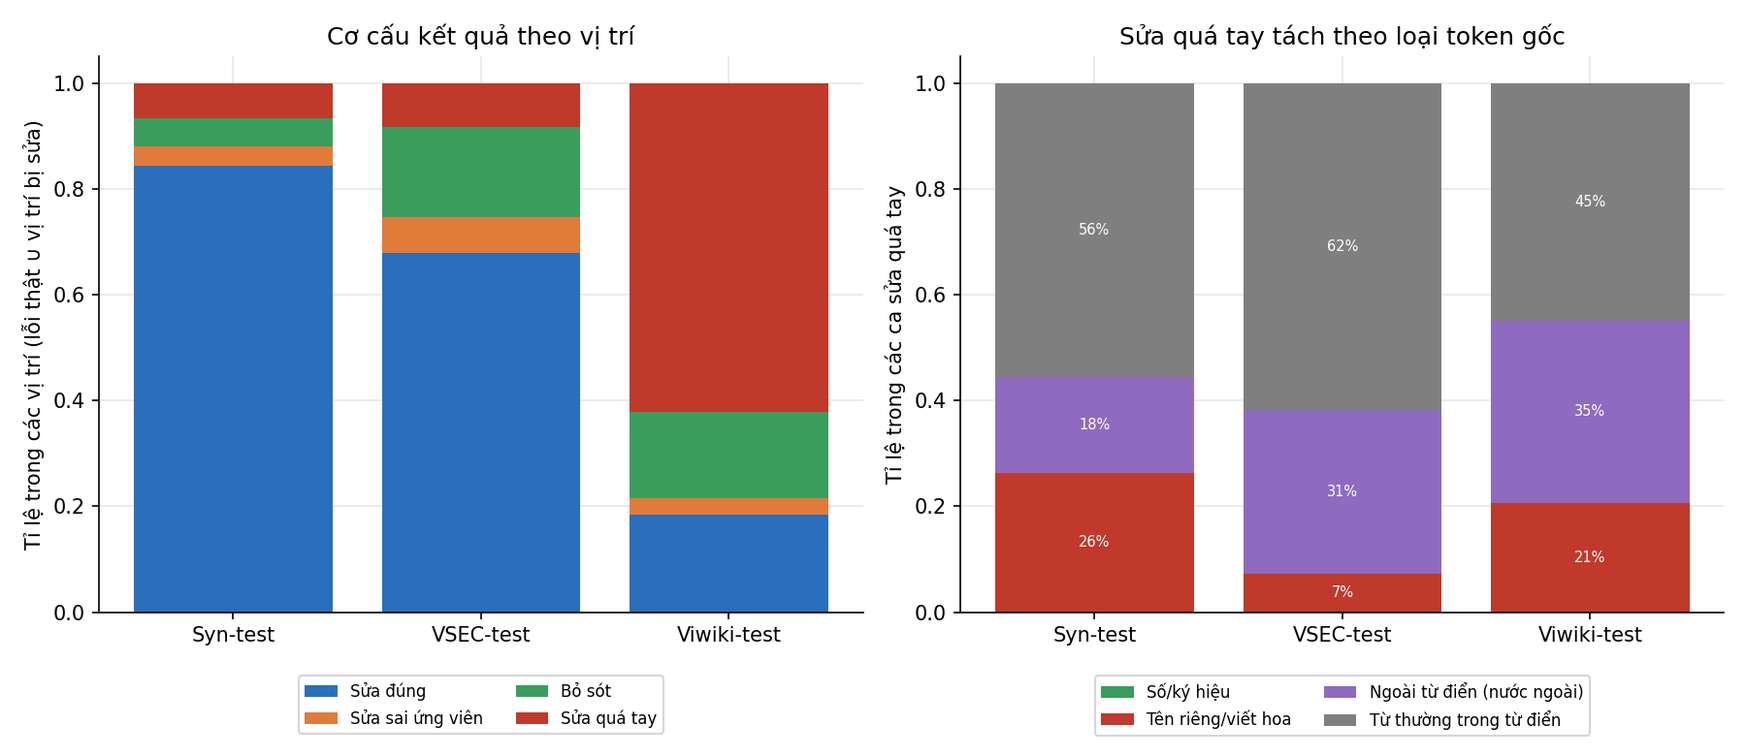
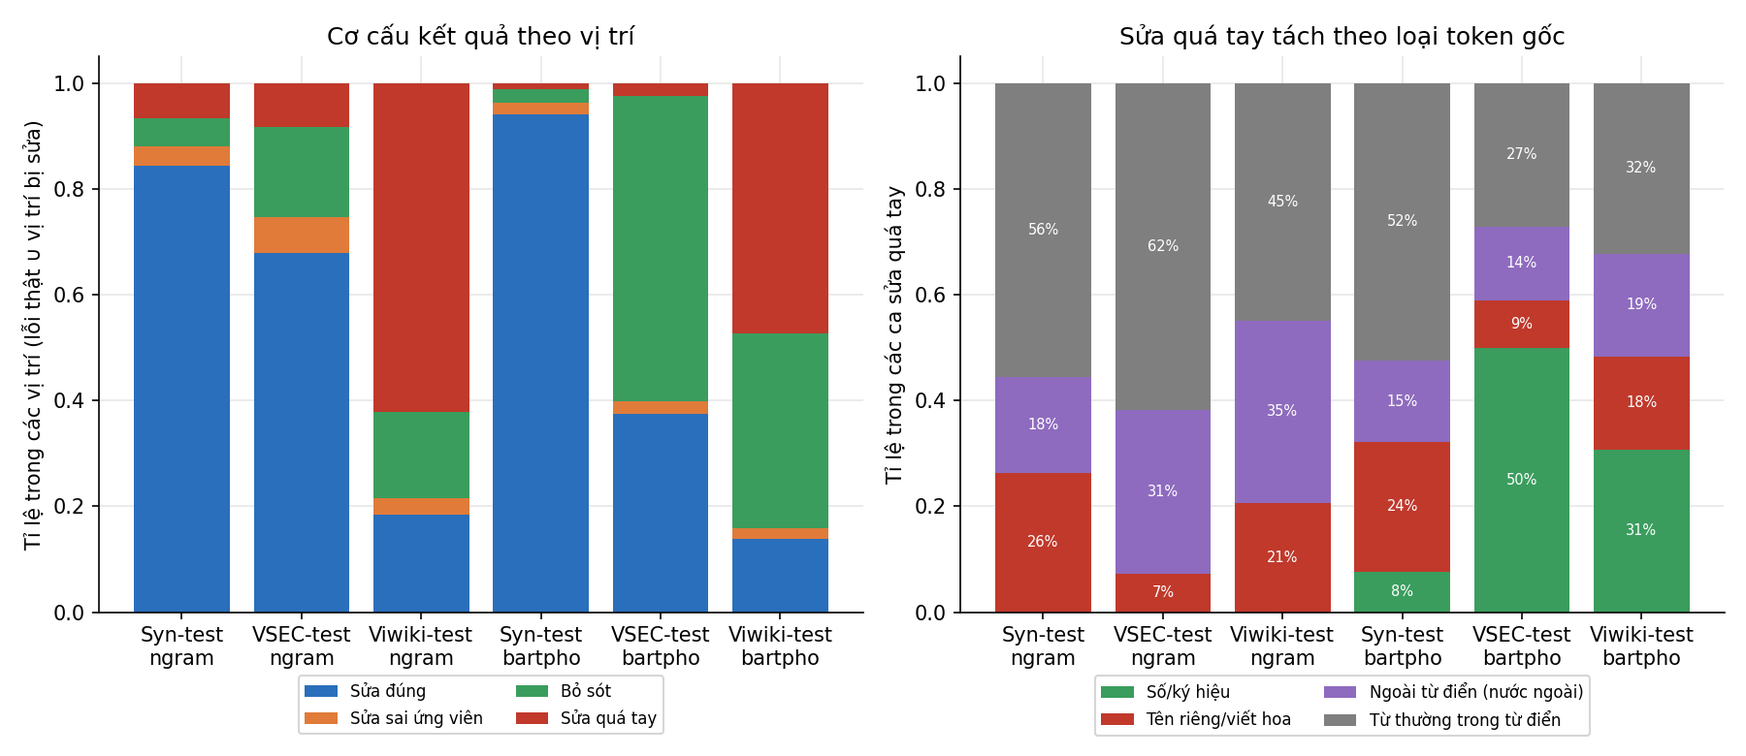
S5b: phân tích A vs C (recall theo kiểu lỗi, lỗi ra từ có thật, ablation mật độ nhiễu, ví dụ)

Changed region(s): [[0.56, 0.0923, 0.9956, 0.8923], [0.0622, 0.0923, 0.4978, 0.8923]]

diff --git a/scripts/analyze_errors.py b/scripts/analyze_errors.py
@@ -45,7 +45,10 @@ DATASETS = ["syn_test", "vsec_test", "viwiki_test"]
 DS_LABEL = {"syn_test": "Syn-test", "vsec_test": "VSEC-test", "viwiki_test": "Viwiki-test",
             "syn_val": "Syn-val", "syn_train": "Syn-train"}
 MODEL_LABEL = {"ngram": "A: n-gram (3-gram KN)", "bartpho": "C: BARTpho", "identity": "Đồng nhất",
-               "bilstm": "B: BiLSTM"}
+               "bilstm": "B: BiLSTM", "bartpho_v1unk": "C: BARTpho v2 (lỗi <unk>)"}
+# Ablation C (mật độ nhiễu khi sinh dữ liệu train): tag -> (mật độ, nhãn)
+ABLATION_C = {"bartpho_d05": (0.05, "5% · 50k · 1 ep"), "bartpho_d12": (0.12, "12% · 50k · 1 ep"),
+              "bartpho_d25": (0.25, "25% · 50k · 1 ep"), "bartpho": (0.12, "12% · 150k · 3 ep\n(mô hình chính)")}
 CAT_LABEL = {"sua_dung": "Sửa đúng", "sua_sai": "Sửa sai ứng viên", "bo_sot": "Bỏ sót",
              "sua_qua_tay": "Sửa quá tay"}
 SUB_LABEL = {"so_ky_hieu": "Số/ký hiệu", "ten_rieng": "Tên riêng/viết hoa",
@@ -671,6 +674,79 @@ def comparison_examples(per_sent, models, rng, start) -> list[str]:
     return md
 
 
+# ---------------------------------------------------------------------------- 6. A vs C theo kiểu lỗi thật
+def ab_recall_rows(per_sent, models: list[str], lexicon: set[str]) -> list[dict]:
+    """Recall sửa lỗi trên lỗi thật, tách theo (a) lỗi tạo ra từ không có thật / từ có thật trong từ điển,
+    (b) kiểu lỗi suy từ cặp (sai, đúng). Lỗi từ có thật (vd giảm→giam) chỉ phát hiện được nhờ ngữ cảnh."""
+    rows = []
+    for m in models:
+        for ds in ["vsec_test", "viwiki_test"]:
+            if (m, ds) not in per_sent:
+                continue
+            tot, ok = Counter(), Counter()
+            for it in per_sent[(m, ds)][1]:
+                for x in it:
+                    if x["cat"] not in ("sua_dung", "sua_sai", "bo_sot") or not _HAS_LETTER.search(x["src_tok"]):
+                        continue
+                    word = "Lỗi ra từ có thật" if x["src_tok"].lower() in lexicon else "Lỗi ra từ không có thật"
+                    for key in [("loai_tu", word), ("kieu_loi", real_error_kind(x["src_tok"], x["gold_str"]))]:
+                        tot[key] += 1
+                        ok[key] += x["cat"] == "sua_dung"
+            for (group, kind), n in sorted(tot.items()):
+                rows.append({"model": m, "dataset": ds, "group": group, "kind": kind, "n": n,
+                             "cor_r": round(ok[(group, kind)] / n, 4)})
+    return rows
+
+
+def run_ab_figures(rows: list[dict], models: list[str], tab_dir: Path, fig_dir: Path) -> None:
+    plt = _plt()
+    # (1) Recall theo loại từ gốc (không có thật / có thật), VSEC và Viwiki
+    kinds = ["Lỗi ra từ không có thật", "Lỗi ra từ có thật"]
+    d = {(r["model"], r["dataset"], r["kind"]): r for r in rows if r["group"] == "loai_tu"}
+    if d:
+        fig, axes = plt.subplots(1, 2, figsize=(10, 3.8), sharey=True)
+        for ax, ds in zip(axes, ["vsec_test", "viwiki_test"]):
+            w = 0.8 / len(models)
+            for k, m in enumerate(models):
+                vals = [float(d[(m, ds, kd)]["cor_r"]) if (m, ds, kd) in d else 0 for kd in kinds]
+                bars = ax.bar([i + (k - (len(models) - 1) / 2) * w for i in range(len(kinds))], vals, w,
+                              color=COLORS[k], label=MODEL_LABEL.get(m, m))
+                _bar_labels(ax, bars)
+            ns = [d.get((models[0], ds, kd), {}).get("n", "?") for kd in kinds]
+            ax.set_xticks(range(len(kinds)), [f"{kd}\n(n={n})" for kd, n in zip(kinds, ns)])
+            ax.set_title(DS_LABEL[ds])
+            ax.set_ylim(0, 1.05)
+        axes[0].set_ylabel("Correction recall")
+        axes[0].legend(fontsize=8)
+        fig.suptitle("Recall trên lỗi thật: lỗi tạo ra từ không có thật và lỗi tạo ra từ có thật")
+        _save(fig, fig_dir, "ab_recall_word_kind.png")
+
+    # (2) Ablation C: mật độ nhiễu và quy mô train, trên VSEC-test
+    main = {(r["model"], r["dataset"]): r for r in _read_csv(tab_dir / "main_results.csv")}
+    abl = [m for m in ABLATION_C if (m, "vsec_test") in main]
+    if len(abl) >= 2:
+        out = []
+        for m in abl:
+            r = main[(m, "vsec_test")]
+            out.append({"model": m, "density": ABLATION_C[m][0], "setting": ABLATION_C[m][1].replace("\n", " "),
+                        **{k: r[k] for k in ["cor_p", "cor_r", "cor_f1", "over_correction"]}})
+        write_csv(tab_dir / "ablation_noise_density.csv", out)
+        metrics = [("cor_p", "Precision"), ("cor_r", "Recall"), ("cor_f1", "F1"), ("over_correction", "Sửa quá tay")]
+        fig, ax = plt.subplots(figsize=(9, 4))
+        w = 0.8 / len(abl)
+        for k, m in enumerate(abl):
+            vals = [float(main[(m, "vsec_test")][key]) for key, _ in metrics]
+            bars = ax.bar([i + (k - (len(abl) - 1) / 2) * w for i in range(len(metrics))], vals, w,
+                          color=COLORS[k], label=ABLATION_C[m][1].replace("\n", " "))
+            _bar_labels(ax, bars)
+        ax.set_xticks(range(len(metrics)), [lab for _, lab in metrics])
+        ax.set_ylim(0, 1.05)
+        ax.set_title("Ablation C trên VSEC-test: mật độ nhiễu khi sinh dữ liệu train")
+        ax.legend(fontsize=8, ncol=2)
+        _save(fig, fig_dir, "ablation_noise_density.png")
+    plt.close("all")
+
+
 # ---------------------------------------------------------------------------- main
 def main() -> None:
     ap = argparse.ArgumentParser(description=__doc__, formatter_class=argparse.RawDescriptionHelpFormatter)
@@ -714,6 +790,9 @@ def main() -> None:
         run_examples(per_sent, args.models, tab_dir, hyp, args.seed)
         if len(args.models) >= 2:
             write_csv(tab_dir / "model_comparison.csv", comparison_rows(per_sent, args.models))
+            ab_rows = ab_recall_rows(per_sent, args.models, lexicon)
+            write_csv(tab_dir / "ab_recall_by_kind.csv", ab_rows)
+            run_ab_figures(ab_rows, args.models, tab_dir, fig_dir)
     if "results" in steps:
         run_results(tab_dir, fig_dir, breakdown, args.models)
 

diff --git a/report/phan_tich_A_vs_C.md b/report/phan_tich_A_vs_C.md
@@ -1,0 +1,157 @@
+# Phân tích A (n-gram) và C (BARTpho)
+
+*Bản nháp cho mục 5 của báo cáo (S5b). Số liệu được sinh bởi `PYTHONPATH=src python -X utf8 scripts/analyze_errors.py --models ngram bartpho --steps errors,results`.*
+
+- **Bảng:** `outputs/tables/main_results.csv`, `model_comparison.csv`, `ab_recall_by_kind.csv`, `ablation_noise_density.csv`, `real_error_kinds.csv`.
+- **Hình:** `outputs/figures/model_comparison_test_sets.png`, `ab_recall_word_kind.png`, `ablation_noise_density.png`, `recall_by_error_type.png`, `error_breakdown.png`.
+- **Ví dụ:** `outputs/tables/error_examples.md`, các ví dụ 15–23.
+
+## 1. Kết quả chung
+
+| Mô hình | Syn-test cor F1 | VSEC-test cor F1 | Viwiki-test cor F1 | Sửa quá tay (Syn / VSEC / Viwiki) |
+|---|---|---|---|---|
+| A: n-gram 3-gram KN | 0,898 | **0,778** | **0,304** | 0,127 / 0,063 / 0,128 |
+| C: BARTpho v2 (lỗi `<unk>`) | 0,919 | 0,490 | 0,159 | 0,159 / 0,523 / 0,139 |
+| C: BARTpho v3 | **0,959** | 0,536 | 0,240 | **0,020 / 0,026 / 0,043** |
+
+- **Trên dữ liệu tổng hợp, C thắng rõ.** Correction F1 là 0,959 so với 0,898, và C gần như không sửa quá tay (0,020).
+- **Trên lỗi thật, A thắng.** Trên VSEC: 0,778 so với 0,536. Trên Viwiki: 0,304 so với 0,240.
+- **C có hồ sơ "thận trọng".** Precision trên VSEC là 0,888, cao hơn A (0,819). Nhưng recall chỉ 0,384, so với 0,741 của A.
+- **Đối chiếu từng vị trí lỗi thật trên VSEC** (`model_comparison.csv`):
+
+  | Nhóm | Số vị trí |
+  |---|---|
+  | Cả hai sửa đúng | 2.881 |
+  | Chỉ A đúng | 3.531 |
+  | Chỉ C đúng | 442 |
+  | Cả hai sai | 1.797 |
+
+  Gần như mọi lỗi C sửa được thì A cũng sửa được. Ngược lại thì không.
+
+**Bài học từ v2 sang v3.** Vocab của BARTpho chỉ có kiểu dấu mới (hoà, thoả, khoẻ, tuỳ, uỷ). Các âm tiết viết theo kiểu dấu cũ (hòa, thỏa…) bị tokenizer biến thành `<unk>`. Mô hình học cách xóa chúng, nên tỉ lệ sửa quá tay trên VSEC lên tới 0,52. Đổi sang kiểu dấu mới trước khi tokenize (`to_bartpho_style`) đã đưa tỉ lệ này về 0,026. Đây là lỗi tiền xử lý, không phải giới hạn của mô hình. Nó cho thấy chuẩn hóa Unicode và vị trí dấu phải khớp với vocab của mô hình tiền huấn luyện.
+
+## 2. Vì sao C thua trên lỗi thật: lệch phân bố loại lỗi
+
+Phân bố kiểu lỗi được suy từ cặp (âm tiết sai, âm tiết đúng), lấy từ `real_error_kinds.csv`:
+
+| Kiểu lỗi | Syn-train | VSEC-test | Viwiki-test |
+|---|---|---|---|
+| Chỉ sai dấu thanh | 6,6% | **49,6%** | **34,1%** |
+| Sai dấu phụ (ă â ê ô ơ ư đ) | 0,4% | 12,0% | 15,7% |
+| Sai 1 chữ cái | **83,8%** | 25,6% | 34,7% |
+| Sai ≥2 ký tự | 9,3% | 4,4% | 7,5% |
+| Tách/ghép âm tiết | 0,0% | 8,4% | 7,8% |
+
+Bộ sinh nhiễu (tỉ lệ loại lỗi theo arXiv 2405.02573) chủ yếu tạo lỗi thay hoặc thêm một chữ cái. Lỗi thật thì một nửa là sai dấu thanh. Recall sửa lỗi theo kiểu lỗi trên VSEC (`ab_recall_by_kind.csv`):
+
+| Kiểu lỗi (VSEC) | n | A | C |
+|---|---|---|---|
+| Chỉ sai dấu thanh | 4.288 | **0,876** | 0,330 |
+| Sai dấu phụ | 1.038 | **0,897** | 0,491 |
+| Sai 1 chữ cái | 2.203 | **0,745** | 0,542 |
+| Sai ≥2 ký tự | 363 | 0,234 | **0,444** |
+| Tách/ghép âm tiết | 418 | 0,002 | **0,089** |
+
+**Nhận xét:**
+
+- **A không phụ thuộc vào phân bố nhiễu khi huấn luyện.** Tập ứng viên của A luôn chứa mọi biến thể dấu thanh và dấu phụ của âm tiết. Việc chọn ứng viên do mô hình ngôn ngữ quyết định, mà mô hình này được học trên văn bản sạch.
+- **C chỉ học những phép sửa đã thấy nhiều khi huấn luyện.** Lỗi dấu thanh chỉ chiếm 6,6% dữ liệu train, nên C hiếm khi dám đổi dấu. Kết quả là recall thấp và precision cao.
+- **C mạnh hơn ở lỗi khó.** Đó là lỗi sai từ 2 ký tự trở lên (ví dụ `phpasp` → `pháp`) và một phần lỗi tách/ghép âm tiết. A không làm được các lỗi này vì giới hạn khoảng cách sửa ≤ 2 và vì A giữ ánh xạ một âm tiết sang một âm tiết.
+
+## 3. Lỗi tạo ra từ có thật
+
+Ta gọi một lỗi là **"tạo ra từ có thật"** khi âm tiết sai vẫn nằm trong từ điển âm tiết, ví dụ giảm→giam, tác giả→tác gia. Những lỗi này chỉ phát hiện được nhờ ngữ cảnh. Ngược lại, lỗi "tạo ra từ không có thật" là khi âm tiết sai nằm ngoài từ điển (hình `ab_recall_word_kind.png`).
+
+| | VSEC: không có thật | VSEC: có thật | Viwiki: không có thật | Viwiki: có thật |
+|---|---|---|---|---|
+| n | 1.677 | **6.638** | 357 | **1.159** |
+| A | 0,751 | **0,776** | 0,389 | **0,528** |
+| C | 0,678 | 0,329 | 0,331 | 0,249 |
+
+- **Đa số lỗi thật thuộc loại tạo ra từ có thật:** 80% trên VSEC và 76% trên Viwiki.
+- **Với lỗi tạo ra từ không có thật,** C chỉ thua A khoảng 7 điểm.
+- **Với lỗi tạo ra từ có thật,** C chỉ sửa được 33%. Mô hình mặc định giữ nguyên một âm tiết hợp lệ, trừ khi ngữ cảnh rất rõ.
+
+Hai nhận xét này trùng nhau: phần lớn lỗi tạo ra từ có thật chính là lỗi sai dấu thanh.
+
+## 4. Ablation C: mật độ nhiễu và quy mô huấn luyện
+
+Kết quả trên VSEC-test (`ablation_noise_density.csv`, hình `ablation_noise_density.png`):
+
+| Cấu hình | P | R | F1 | Sửa quá tay |
+|---|---|---|---|---|
+| 5% nhiễu · 50k cặp · 1 epoch | 0,884 | 0,422 | 0,572 | 0,024 |
+| 12% · 50k · 1 epoch | 0,882 | **0,480** | 0,622 | 0,028 |
+| 25% · 50k · 1 epoch | 0,895 | 0,479 | **0,624** | 0,045 |
+| 12% · 150k · 3 epoch (mô hình chính) | 0,888 | 0,384 | 0,536 | 0,026 |
+
+- **Mật độ nhiễu:** tăng từ 5% lên 12% làm recall tăng 6 điểm, còn precision gần như không đổi. Lên 25% thì F1 không tăng thêm, trong khi tỉ lệ sửa quá tay gần gấp đôi. Mức 12% là điểm cân bằng hợp lý.
+- **Quy mô huấn luyện:** mô hình chính được train nhiều hơn khoảng 9 lần (150k cặp × 3 epoch). Nó tốt hơn trên Syn-test nhưng **kém hơn** trên VSEC (0,536 so với 0,622). Train càng lâu trên dữ liệu tổng hợp, mô hình càng khớp với phân bố nhiễu tự sinh và càng ít dám sửa những lỗi không giống dữ liệu train. Vì vậy, chọn checkpoint theo Syn-val không phải là tiêu chí tốt khi mục tiêu là lỗi thật.
+- **Hướng cải thiện (chưa làm):**
+  - tăng tỉ lệ lỗi dấu thanh và dấu phụ khi sinh nhiễu cho khớp với VSEC;
+  - chọn checkpoint hoặc dừng sớm theo VSEC-dev;
+  - trộn một phần dữ liệu lỗi thật vào tập train.
+
+## 5. Ví dụ tiêu biểu
+
+Các ví dụ được đánh số theo `outputs/tables/error_examples.md`. In **đậm** là vị trí lỗi hoặc vị trí bị sửa.
+
+**Ví dụ 15. A đúng, C sai: lỗi tạo ra từ có thật (Viwiki).**
+
+- src: Không những Voltaire, tác **gia** Thụy Điển là Frans G.
+- A: tác **giả**. C: giữ nguyên `tác gia`.
+- Nhận xét: "gia" là âm tiết hợp lệ. A nhận ra nhờ trigram "tác giả Thụy" có xác suất cao hơn hẳn. C coi "tác gia" là cụm hợp lệ (nó cũng là một từ Hán Việt hiếm) nên không sửa.
+
+**Ví dụ 16. A đúng, C sai: chỉ sai dấu thanh (VSEC).**
+
+- src: công sức **đòng** góp của vợ, chồng
+- A: **đóng** góp. C: giữ nguyên `đòng`.
+- Nhận xét: đây là kiểu lỗi chiếm một nửa VSEC. A thử mọi dấu thanh của "đong" và chọn theo LM. C hiếm khi thấy kiểu sửa này khi train.
+
+**Ví dụ 17. A đúng, C sai: sai dấu thanh, ngay cả trên Syn-test.**
+
+- src: **Buỗi** chiều, các đại biểu sẽ thảo luận theo tổ.
+- A: **Buổi**. C: giữ nguyên `Buỗi`.
+- Nhận xét: "Buỗi" không phải âm tiết hợp lệ. Dù vậy C vẫn bỏ qua, vì lỗi sai dấu thanh chỉ chiếm 6,6% dữ liệu train.
+
+**Ví dụ 18. C đúng, A sai: tên riêng bị lỗi gõ (Syn).**
+
+- src: ông Đinh Văn **Fhu** **lpà** Đinh Văn Vũ
+- A: chỉ sửa `lpà` → `là`, giữ nguyên `Fhu`. C: sửa cả hai, `Fhu` → **Thu** và `lpà` → **là**.
+- Nhận xét: A tránh sửa từ viết hoa giữa câu (coi là tên riêng). C dùng ngữ cảnh "Đinh Văn ___" để đoán đúng tên.
+
+**Ví dụ 19. C đúng, A sai: sai nhiều ký tự (VSEC).**
+
+- src: thực hiện biện **phpasp** này
+- A: giữ nguyên. C: **pháp**.
+- Nhận xét: khoảng cách sửa từ "phpasp" đến "pháp" lớn hơn 2 (lỗi Telex gõ lặp), nên A không có ứng viên đúng. C sinh lại cả chuỗi nên không bị giới hạn này.
+
+**Ví dụ 20. C đúng, A sai: lỗi cần hiểu cụm từ (Viwiki).**
+
+- src: và **cơ** **ngợi** những chiến thắng
+- A: sửa `ngợi` → `ngơi`, thành "cơ ngơi", đúng ngữ pháp nhưng sai nghĩa. C: **ca** ngợi.
+- Nhận xét: gold chỉ sửa "cơ" → "ca". A chọn sửa sai âm tiết vì "cơ ngơi" là một cụm phổ biến trong LM.
+
+**Ví dụ 21. Cả hai sai: hai lỗi liền kề (VSEC).**
+
+- src: vay vốn tín **chất** để **phụ** vụ cho hoạt động nuôi trồng
+- A: sửa được `chất` → **chấp** nhưng bỏ sót `phụ` → `phục`. C: không sửa gì.
+- Nhận xét: cả hai lỗi đều tạo ra từ có thật. Với "phụ" → "phục", hình phạt khi sửa một âm tiết hợp lệ của A lớn hơn mức chênh điểm LM. C thì bỏ qua cả hai, đúng với hồ sơ "thận trọng" đã nêu ở mục 1.
+
+**Ví dụ 22. Cả hai sai: viết tắt hoặc tên câu lạc bộ (Viwiki).**
+
+- src: **Chel** 85 điểm. Gold: chelsea.
+- Nhận xét: đây là lỗi "tách/ghép" và viết tắt, nằm ngoài phạm vi thiết kế của cả hai mô hình (giữ một âm tiết sang một âm tiết, không có tên riêng nước ngoài trong từ điển). Ví dụ này cũng cho thấy nhãn của Viwiki có độ nhiễu nhất định.
+
+**Ví dụ 23. Cả hai sai: lỗi cần kiến thức thế giới (Syn).**
+
+- src: hoa đào, hoa **hai**, bánh chưng… Gold: hoa **mai**.
+- A: sửa thành "hồi" (hoa hồi, đúng ngữ pháp). C: giữ nguyên "hai".
+- Nhận xét: cả hai đều sửa đúng `khoong` → `không` ở đầu câu. Nhưng muốn sửa "hai" → "mai" thì cần biết cặp "hoa đào, hoa mai" ngày Tết, điều mà trigram và mô hình đã fine-tune trên tin tức đều không nắm được.
+
+## 6. Kết luận cho mục 5
+
+1. **Trên dữ liệu cùng phân bố với lúc huấn luyện, C (BARTpho) tốt hơn A** cả về F1 lẫn độ an toàn (ít sửa quá tay).
+2. **Trên lỗi thật, A tốt hơn.** Nguyên nhân chính là lệch phân bố loại lỗi giữa nhiễu tổng hợp và lỗi thật: lỗi sai dấu thanh và lỗi tạo ra từ có thật chiếm đa số trong lỗi thật nhưng rất ít trong dữ liệu train. Bản thân kiến trúc không phải nguyên nhân chính.
+3. **Hai mô hình bổ sung cho nhau.** C mạnh ở lỗi sai nhiều ký tự và lỗi cần ngữ cảnh rộng, A mạnh ở lỗi dấu. Kết hợp hai mô hình (ví dụ dùng A tạo ứng viên rồi C xếp hạng, hoặc ensemble) là hướng phát triển tự nhiên.
+4. **Kết quả ablation C:** tăng mật độ nhiễu lên 12% có lợi. Train lâu hơn trên dữ liệu tổng hợp lại có hại khi chuyển sang lỗi thật.

diff --git a/outputs/tables/error_examples.md b/outputs/tables/error_examples.md
@@ -145,3 +145,68 @@ In **đậm**: ở `src` là vị trí lỗi thật hoặc bị mô hình sửa;
 | neu_bo_qua_ten_rieng+ngoai_tu_dien | 0.3634 | F1 nếu không sửa nhóm này: P=0.338 R=0.393 (mất 145 sửa đúng) |
 | neu_bo_qua_ten_rieng+ngoai_tu_dien+so_ky_hieu | 0.3634 | F1 nếu không sửa nhóm này: P=0.338 R=0.393 (mất 145 sửa đúng) |
 | top_overcorrections | manga→mang (29); Nero→Nào (18); kỉ→kỷ (15); Gin→Giá (15); Nero→Neo (15); Khun→Khu (15); c→có (14); lb→lễ (13); and→anh (13); bạn→bàn (13); điốt→điểm (12); biến→tiến (10); trưởng→trường (10); Mao→Mai (10); Thự→Thọ (10) |  |
+
+## So sánh A: n-gram (3-gram KN) và C: BARTpho
+
+**Ví dụ 15. ngram đúng, bartpho sai [viwiki-6810-547]**
+
+- src : Không những Voltaire , tác **gia** Thụy Điển là Frans G .
+- ngram: Không những Voltaire , tác **giả** Thụy Điển là Frans G .
+- bartpho: Không những Voltaire , tác gia Thụy Điển là Frans G .
+- tgt : Không những Voltaire , tác **giả** Thụy Điển là Frans G .
+
+**Ví dụ 16. ngram đúng, bartpho sai [vsec-404]**
+
+- src : … có một quy định nào quy định cụ thể về công sức **đòng** góp của vợ , chồng trong việc tạo lập , duy trì …
+- ngram: … có một quy định nào quy định cụ thể về công sức **đóng** góp của vợ , chồng trong việc tạo lập , duy trì …
+- bartpho: … có một quy định nào quy định cụ thể về công sức đòng góp của vợ , chồng trong việc tạo lập , duy trì …
+- tgt : … có một quy định nào quy định cụ thể về công sức **đóng** góp của vợ , chồng trong việc tạo lập , duy trì …
+
+**Ví dụ 17. ngram đúng, bartpho sai [syn_test-4838]**
+
+- src : **Buỗi** chiều , các đại biểu sẽ thảo luận theo tổ .
+- ngram: **Buổi** chiều , các đại biểu sẽ thảo luận theo tổ .
+- bartpho: Buỗi chiều , các đại biểu sẽ thảo luận theo tổ .
+- tgt : **Buổi** chiều , các đại biểu sẽ thảo luận theo tổ .
+
+**Ví dụ 18. bartpho đúng, ngram sai [syn_test-3260]**
+
+- src : Người con trai khác của ông Đinh Văn **Fhu** **lpà** Đinh Văn Vũ , hiện đang giữ chức Phó Giám đốc …
+- ngram: Người con trai khác của ông Đinh Văn Fhu **là** Đinh Văn Vũ , hiện đang giữ chức Phó Giám đốc …
+- bartpho: Người con trai khác của ông Đinh Văn **Thu** **là** Đinh Văn Vũ , hiện đang giữ chức Phó Giám đốc …
+- tgt : Người con trai khác của ông Đinh Văn **Thu** **là** Đinh Văn Vũ , hiện đang giữ chức Phó Giám đốc …
+
+**Ví dụ 19. bartpho đúng, ngram sai [vsec-8988]**
+
+- src : Học sinh có nhiều cách khác nhau để thực hiện biện **phpasp** này , chẳng hạn : Phân loại bài toán , phân dạng …
+- ngram: Học sinh có nhiều cách khác nhau để thực hiện biện phpasp này , chẳng hạn : Phân loại bài toán , phân dạng …
+- bartpho: Học sinh có nhiều cách khác nhau để thực hiện biện **pháp** này , chẳng hạn : Phân loại bài toán , phân dạng …
+- tgt : Học sinh có nhiều cách khác nhau để thực hiện biện **pháp** này , chẳng hạn : Phân loại bài toán , phân dạng …
+
+**Ví dụ 20. bartpho đúng, ngram sai [viwiki-1022-1]**
+
+- src : … về tính ác liệt của cuộc chiến bảo vệ tổ quốc và **cơ** **ngợi** những chiến thắng được viết bởi nhà thơ Francisco González Bocanegra …
+- ngram: … về tính ác liệt của cuộc chiến bảo vệ tổ quốc và cơ **ngơi** những chiến thắng được viết bởi nhà thơ Francisco González Bocanegra …
+- bartpho: … về tính ác liệt của cuộc chiến bảo vệ tổ quốc và **ca** ngợi những chiến thắng được viết bởi nhà thơ Francisco González Bocanegra …
+- tgt : … về tính ác liệt của cuộc chiến bảo vệ tổ quốc và **ca** ngợi những chiến thắng được viết bởi nhà thơ Francisco González Bocanegra …
+
+**Ví dụ 21. cả hai sai [vsec-8889]**
+
+- src : … tra có ít nhất 4000 hộ xin vay vốn tín **chất** để **phụ** vụ cho hoạt động nuôi trồng thủy sản .
+- ngram: … tra có ít nhất 4000 hộ xin vay vốn tín **chấp** để phụ vụ cho hoạt động nuôi trồng thủy sản .
+- bartpho: … tra có ít nhất 4000 hộ xin vay vốn tín chất để phụ vụ cho hoạt động nuôi trồng thủy sản .
+- tgt : … tra có ít nhất 4000 hộ xin vay vốn tín **chấp** để **phục** vụ cho hoạt động nuôi trồng thủy sản .
+
+**Ví dụ 22. cả hai sai [viwiki-12116-156]**
+
+- src : … PL với 87 điểm ( HS : 80 - 22 ) , **Chel** 85 điểm ( 65 - 26 ) khi để Bolton cầm hòa …
+- ngram: … PL với 87 điểm ( HS : 80 - 22 ) , Chel 85 điểm ( 65 - 26 ) khi để Bolton cầm hòa …
+- bartpho: … PL với 87 điểm ( HS : 80 - 22 ) , Chel 85 điểm ( 65 - 26 ) khi để Bolton cầm hòa …
+- tgt : … PL với 87 điểm ( HS : 80 - 22 ) , **chelsea** 85 điểm ( 65 - 26 ) khi để Bolton cầm hòa …
+
+**Ví dụ 23. cả hai sai [syn_test-1468]**
+
+- src : Tết thì **khoong** thể thiếu hoa đào , hoa **hai** , vẫn bánh chưng và không khí nhộn nhịp của ngày Tết …
+- ngram: Tết thì **không** thể thiếu hoa đào , hoa **hồi** , vẫn bánh chưng và không khí nhộn nhịp của ngày Tết …
+- bartpho: Tết thì **không** thể thiếu hoa đào , hoa hai , vẫn bánh chưng và không khí nhộn nhịp của ngày Tết …
+- tgt : Tết thì **không** thể thiếu hoa đào , hoa **mai** , vẫn bánh chưng và không khí nhộn nhịp của ngày Tết …
